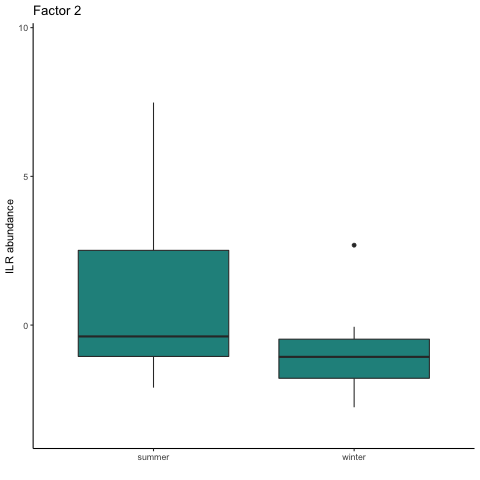
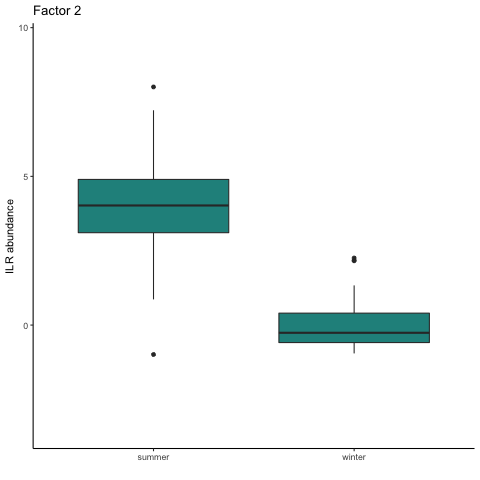
adding data on sex, bmi

diff --git a/02-analysis/README.md b/02-analysis/README.md
@@ -11,6 +11,7 @@
 # install.packages("UpSetR")
 # install.packages("vegan")
 # install.packages("ggfortify")
+# install.packages("ggrepel")
 # if (!requireNamespace("BiocManager", quietly = TRUE))
 #    install.packages("BiocManager")
 # BiocManager::install("philr")
@@ -42,6 +43,7 @@ library(microbiome)
 library(randomForest)
 library(rfUtilities)
 library(tidyverse)
+library(ggrepel)
 ```
 
 ### Load data into R
@@ -80,7 +82,7 @@ ps.dat
 ```text
 phyloseq-class experiment-level object
 otu_table()   OTU Table:         [ 2879 taxa and 58 samples ]
-sample_data() Sample Data:       [ 58 samples by 22 sample variables ]
+sample_data() Sample Data:       [ 58 samples by 31 sample variables ]
 tax_table()   Taxonomy Table:    [ 2879 taxa by 7 taxonomic ranks ]
 phy_tree()    Phylogenetic Tree: [ 2879 tips and 2878 internal nodes ]
 ```
@@ -139,11 +141,27 @@ dev.off()
 png("imgs/pca_temp.png")
 autoplot(pca, data=sample_data(ps.dat.nocont), colour="Temperature_C") + theme_minimal() 
 dev.off()
+png("imgs/pca_bmi.png")
+autoplot(pca, data=sample_data(ps.dat.nocont), colour="BMI_classification") + theme_minimal() 
+dev.off()
+png("imgs/pca_sex.png")
+autoplot(pca, data=sample_data(ps.dat.nocont), colour="Sex") + theme_minimal() 
+dev.off()
+png("imgs/pca_bodyID.png")
+autoplot(pca, data=sample_data(ps.dat.nocont)) + theme_minimal() + geom_label_repel(aes(label=Body_id, colour=Body_id), box.padding=0.35, point.padding=0.5, segment.color='grey50', max.overlaps=15, cex=1.5)
+dev.off()
+pdf("imgs/pca_bodyID.pdf")
+autoplot(pca, data=sample_data(ps.dat.nocont)) + theme_minimal() + geom_label_repel(aes(label=Body_id, colour=Body_id), box.padding=0.35, point.padding=0.5, segment.color='grey50', max.overlaps=15, cex=1.5)
+dev.off()
 ```
 ![screeplot](https://github.com/aemann01/necrobiome/blob/master/02-analysis/imgs/philr_screeplot.png)
 ![pca season](https://github.com/aemann01/necrobiome/blob/master/02-analysis/imgs/pca_season.png)
 ![pca matrix](https://github.com/aemann01/necrobiome/blob/master/02-analysis/imgs/pca_matrix.png)
 ![pca temp](https://github.com/aemann01/necrobiome/blob/master/02-analysis/imgs/pca_temp.png)
+![pca bmi](https://github.com/aemann01/necrobiome/blob/master/02-analysis/imgs/pca_bmi.png)
+![pca sex](https://github.com/aemann01/necrobiome/blob/master/02-analysis/imgs/pca_sex.png)
+![pca bodyID](https://github.com/aemann01/necrobiome/blob/master/02-analysis/imgs/pca_bodyID.png)
+
 
 Colored by surface temperature?
 
@@ -351,6 +369,48 @@ Total      57   10299.8                 1.00000
 Signif. codes:  0 ‘***’ 0.001 ‘**’ 0.01 ‘*’ 0.05 ‘.’ 0.1 ‘ ’ 1
 ```
 
+```R
+adonis(philr.dist ~ Sex, data=metadata)
+```
+
+```text
+Call:
+adonis(formula = philr.dist ~ Sex, data = metadata)
+
+Permutation: free
+Number of permutations: 999
+
+Terms added sequentially (first to last)
+
+          Df SumsOfSqs MeanSqs F.Model      R2 Pr(>F)
+Sex        1     885.2  885.24  5.2656 0.08595  0.002 **
+Residuals 56    9414.5  168.12         0.91405
+Total     57   10299.8                 1.00000
+---
+Signif. codes:  0 ‘***’ 0.001 ‘**’ 0.01 ‘*’ 0.05 ‘.’ 0.1 ‘ ’ 1
+```
+
+```R
+adonis(philr.dist ~ BMI_classification, data=metadata)
+```
+
+```text
+Call:
+adonis(formula = philr.dist ~ BMI_classification, data = metadata)
+
+Permutation: free
+Number of permutations: 999
+
+Terms added sequentially (first to last)
+
+                   Df SumsOfSqs MeanSqs F.Model      R2 Pr(>F)
+BMI_classification  4    2187.3  546.82  3.5725 0.21236  0.001 ***
+Residuals          53    8112.5  153.07         0.78764
+Total              57   10299.8                 1.00000
+---
+Signif. codes:  0 ‘***’ 0.001 ‘**’ 0.01 ‘*’ 0.05 ‘.’ 0.1 ‘ ’ 1
+```
+
 ### Phylofactor
 
 Differentially abundant taxa between groups
@@ -401,7 +461,7 @@ wilcox.test(dat[dat$V1 == "summer",]$V2, dat[dat$V1 == "winter",]$V2)
 	Wilcoxon rank sum test
 
 data:  dat[dat$V1 == "summer", ]$V2 and dat[dat$V1 == "winter", ]$V2
-W = 533, p-value = 0.0488
+W = 52, p-value = 2.72e-10
 alternative hypothesis: true location shift is not equal to 0
 ```
 
@@ -424,7 +484,7 @@ wilcox.test(dat[dat$V1 == "summer",]$V2, dat[dat$V1 == "winter",]$V2)
 	Wilcoxon rank sum test
 
 data:  dat[dat$V1 == "summer", ]$V2 and dat[dat$V1 == "winter", ]$V2
-W = 592, p-value = 0.003246
+W = 771, p-value = 8.248e-11
 alternative hypothesis: true location shift is not equal to 0
 ```
 
@@ -447,7 +507,7 @@ wilcox.test(dat[dat$V1 == "summer",]$V2, dat[dat$V1 == "winter",]$V2)
 	Wilcoxon rank sum test
 
 data:  dat[dat$V1 == "summer", ]$V2 and dat[dat$V1 == "winter", ]$V2
-W = 260, p-value = 0.01903
+W = 712, p-value = 2.731e-07
 alternative hypothesis: true location shift is not equal to 0
 ```
 
@@ -605,11 +665,15 @@ dev.off()
 
 ### Differential abundance 
 
+```bash
+conda activate qiime2-2020.8
+```
+
 First need to format for qiime2 (transpose sequence table beforehand, columns = samples, rows = ASV IDs)
 
 ```R
-system("biom convert -i ../01-raw_data_processing/sequence_table.16s.filtered.tr.txt -o sequence_table.16s.filtered.biom --table-type="OTU table" --to-hdf5")
-system("biom summarize-table -i sequence_table.16s.filtered.biom")
+biom convert -i ../01-raw_data_processing/sequence_table.16s.filtered.tr.txt -o sequence_table.16s.filtered.biom --table-type='OTU table' --to-hdf5
+biom summarize-table -i sequence_table.16s.filtered.biom
 ```
 ```text
 Num samples: 61
@@ -690,72 +754,221 @@ S36A: 295,081.000
 S34A: 328,813.000
 ```
 
-```R
-system("qiime tools import --input-path sequence_table.16s.filtered.biom --type 'FeatureTable[Frequency]' --input-format BIOMV210Format --output-path sequence_table.16s.filtered.qza")
+```bash
+qiime tools import --input-path sequence_table.16s.filtered.biom --type 'FeatureTable[Frequency]' --input-format BIOMV210Format --output-path sequence_table.16s.filtered.qza
 ```
 
 Now can run ALDEx plugin through qiime
 
 ```R
-system("qiime feature-table filter-samples --i-table sequence_table.16s.filtered.qza --m-metadata-file map.txt --p-where "[Sample-type]='swab'" --o-filtered-table swab-feature-table.qza")
-system("qiime aldex2 aldex2 --i-table swab-feature-table.qza --m-metadata-file map.txt --m-metadata-column Season --output-dir season_aldex")
-system("qiime aldex2 effect-plot --i-table season_aldex/differentials.qza --o-visualization season_aldex/season")
-system("qiime tools view season_aldex/season.qzv")
+qiime feature-table filter-samples --i-table sequence_table.16s.filtered.qza --m-metadata-file map.txt --p-where "[Sample-type]='swab'" --o-filtered-table swab-feature-table.qza
+qiime aldex2 aldex2 --i-table swab-feature-table.qza --m-metadata-file map.txt --m-metadata-column Season --output-dir season_aldex
+qiime aldex2 effect-plot --i-table season_aldex/differentials.qza --o-visualization season_aldex/season
+qiime tools view season_aldex/season.qzv
 ```
 
 ![aldex season](https://github.com/aemann01/necrobiome/blob/master/02-analysis/season_aldex/effect_plot.png)
 
 
 ```R
-system("qiime aldex2 extract-differences --i-table season_aldex/differentials.qza --o-differentials season_aldex/season --p-sig-threshold 0.1 --p-effect-threshold 0 --p-difference-threshold 0")
-system("qiime tools export --input-path season_aldex/season.qza --output-path season_aldex/")
-system("awk '{print $1}' season_aldex/differentials.tsv | grep "ASV" | while read line; do grep -w $line tax_for_phyloseq.txt ; done > season_aldex/differentials.taxonomy.txt")
-system("head season_aldex/differentials.taxonomy.txt")
+qiime aldex2 extract-differences --i-table season_aldex/differentials.qza --o-differentials season_aldex/season --p-sig-threshold 0.1 --p-effect-threshold 0 --p-difference-threshold 0
+qiime tools export --input-path season_aldex/season.qza --output-path season_aldex/
+awk '{print $1}' season_aldex/differentials.tsv | grep "ASV" | while read line; do grep -w $line tax_for_phyloseq.txt ; done > season_aldex/differentials.taxonomy.txt
+head season_aldex/differentials.taxonomy.txt
 ```
 
 ```text
 ASV4	Bacteria	Actinobacteria	Actinobacteria_c	Corynebacteriales	Corynebacteriaceae	Corynebacterium	Corynebacterium_unknown
-ASV5	Bacteria	Firmicutes	Bacilli	Bacillales	Planococcaceae	Planococcaceae_unknown	Planococcaceae_unknown
-ASV6	Bacteria	Firmicutes	Clostridia	Clostridiales	Clostridiaceae	Clostridium	Clostridium_unknown
+ASV5	Bacteria	Firmicutes	Clostridia	Clostridiales	Clostridiaceae	Clostridium	Clostridium_unknown
+ASV6	Bacteria	Firmicutes	Bacilli	Bacillales	Planococcaceae	Planococcaceae_unknown	Planococcaceae_unknown
 ASV7	Bacteria	Firmicutes	Clostridia	Clostridiales	Clostridiaceae	Clostridium	Clostridium_unknown
 ASV10	Bacteria	Firmicutes	Clostridia	Clostridiales	Clostridiaceae	Clostridium	Clostridium_unknown
 ASV16	Bacteria	Proteobacteria	Betaproteobacteria	Burkholderiales	Burkholderiaceae	Paraburkholderia	Paraburkholderia_unknown
 ASV17	Bacteria	Firmicutes	Clostridia	Clostridiales	Peptostreptococcaceae	Peptostreptococcaceae_unknown	Peptostreptococcaceae_unknown
 ASV20	Bacteria	Firmicutes	Clostridia	Clostridiales	Clostridiaceae	Clostridium	Clostridium_unknown
-ASV22	Bacteria	Actinobacteria	Actinobacteria_c	Corynebacteriales	Corynebacteriaceae	Corynebacterium	Corynebacterium_unknown
+ASV22	Bacteria	Firmicutes	Erysipelotrichi	Erysipelotrichales	Erysipelotrichaceae	Erysipelotrichaceae_unknown	Erysipelotrichaceae_unknown
 ASV23	Bacteria	Firmicutes	Bacilli	Bacillales	Planococcaceae	Planococcaceae_unknown	Planococcaceae_unknown
 ```
 
 Low vs high temperature -- first need to filter out the na sample from mapping file (delete in excel) and then filter from qza
 
 ```R
-system("qiime feature-table filter-samples --i-table swab-feature-table.qza --m-metadata-file map.filt.txt --o-filtered-table swab-feature-table.filt.qza")
-system("qiime aldex2 aldex2 --i-table swab-feature-table.filt.qza --m-metadata-file map.filt.txt --m-metadata-column Temp_group_binary --output-dir temp-low-hi_aldex")
-system("qiime aldex2 effect-plot --i-table temp-low-hi_aldex/differentials.qza --o-visualization temp-low-hi_aldex/temp-low-hi")
-system("qiime tools view temp-low-hi_aldex/temp-low-hi.qzv")
+qiime feature-table filter-samples --i-table swab-feature-table.qza --m-metadata-file map.filt.txt --o-filtered-table swab-feature-table.filt.qza
+qiime aldex2 aldex2 --i-table swab-feature-table.filt.qza --m-metadata-file map.filt.txt --m-metadata-column Temp_group_binary --output-dir temp-low-hi_aldex
+qiime aldex2 effect-plot --i-table temp-low-hi_aldex/differentials.qza --o-visualization temp-low-hi_aldex/temp-low-hi
+qiime tools view temp-low-hi_aldex/temp-low-hi.qzv
 ```
 
 ![aldex season](https://github.com/aemann01/necrobiome/blob/master/02-analysis/temp-low-hi_aldex/effect_plot.png)
 
 ```R
-system("qiime aldex2 extract-differences --i-table temp-low-hi_aldex/differentials.qza --o-differentials temp-low-hi_aldex/temp-low-hi --p-sig-threshold 0.1 --p-effect-threshold 0 --p-difference-threshold 0")
-system("qiime tools export --input-path temp-low-hi_aldex/temp-low-hi.qza --output-path temp-low-hi_aldex/")
-system("awk '{print $1}' temp-low-hi_aldex/differentials.tsv | grep "ASV" | while read line; do grep -w $line tax_for_phyloseq.txt ; done > temp-low-hi_aldex/differentials.taxonomy.txt")
-system("head temp-low-hi_aldex/differentials.taxonomy.txt")
+qiime aldex2 extract-differences --i-table temp-low-hi_aldex/differentials.qza --o-differentials temp-low-hi_aldex/temp-low-hi --p-sig-threshold 0.1 --p-effect-threshold 0 --p-difference-threshold 0
+qiime tools export --input-path temp-low-hi_aldex/temp-low-hi.qza --output-path temp-low-hi_aldex/
+awk '{print $1}' temp-low-hi_aldex/differentials.tsv | grep "ASV" | while read line; do grep -w $line tax_for_phyloseq.txt ; done > temp-low-hi_aldex/differentials.taxonomy.txt
+head temp-low-hi_aldex/differentials.taxonomy.txt
 ```
 
 ```text
 ASV4	Bacteria	Actinobacteria	Actinobacteria_c	Corynebacteriales	Corynebacteriaceae	Corynebacterium	Corynebacterium_unknown
-ASV5	Bacteria	Firmicutes	Bacilli	Bacillales	Planococcaceae	Planococcaceae_unknown	Planococcaceae_unknown
-ASV6	Bacteria	Firmicutes	Clostridia	Clostridiales	Clostridiaceae	Clostridium	Clostridium_unknown
+ASV5	Bacteria	Firmicutes	Clostridia	Clostridiales	Clostridiaceae	Clostridium	Clostridium_unknown
+ASV6	Bacteria	Firmicutes	Bacilli	Bacillales	Planococcaceae	Planococcaceae_unknown	Planococcaceae_unknown
 ASV10	Bacteria	Firmicutes	Clostridia	Clostridiales	Clostridiaceae	Clostridium	Clostridium_unknown
 ASV16	Bacteria	Proteobacteria	Betaproteobacteria	Burkholderiales	Burkholderiaceae	Paraburkholderia	Paraburkholderia_unknown
 ASV20	Bacteria	Firmicutes	Clostridia	Clostridiales	Clostridiaceae	Clostridium	Clostridium_unknown
-ASV22	Bacteria	Actinobacteria	Actinobacteria_c	Corynebacteriales	Corynebacteriaceae	Corynebacterium	Corynebacterium_unknown
+ASV22	Bacteria	Firmicutes	Erysipelotrichi	Erysipelotrichales	Erysipelotrichaceae	Erysipelotrichaceae_unknown	Erysipelotrichaceae_unknown
 ASV23	Bacteria	Firmicutes	Bacilli	Bacillales	Planococcaceae	Planococcaceae_unknown	Planococcaceae_unknown
 ASV26	Bacteria	Firmicutes	Clostridia	Clostridiales	Clostridiaceae	Clostridium	Clostridium_unknown
 ASV32	Bacteria	Proteobacteria	Gammaproteobacteria	Enterobacterales	Morganellaceae	Providencia	Providencia_unknown
 ```
+
+### Beta dispersion
+
+```R
+dispr <- vegan::betadisper(philr.dist, phyloseq::sample_data(ps.dat.nocont)$Season)
+dispr
+```
+
+```text
+	Homogeneity of multivariate dispersions
+
+Call: vegan::betadisper(d = philr.dist, group =
+phyloseq::sample_data(ps.dat.nocont)$Season)
+
+No. of Positive Eigenvalues: 57
+No. of Negative Eigenvalues: 0
+
+Average distance to median:
+summer winter
+ 11.49  11.71
+
+Eigenvalues for PCoA axes:
+(Showing 8 of 57 eigenvalues)
+ PCoA1  PCoA2  PCoA3  PCoA4  PCoA5  PCoA6  PCoA7  PCoA8
+2884.0 2465.0 1063.1  546.6  439.1  374.7  319.5  245.1
+```
+
+```R
+permutest(dispr)
+```
+
+```text
+Permutation test for homogeneity of multivariate dispersions
+Permutation: free
+Number of permutations: 999
+
+Response: Distances
+          Df Sum Sq Mean Sq      F N.Perm Pr(>F)
+Groups     1   0.67  0.6732 0.0394    999  0.872
+Residuals 56 956.64 17.0828
+```
+
+```R
+dispr <- vegan::betadisper(philr.dist, phyloseq::sample_data(ps.dat.nocont)$Sex)
+dispr
+```
+
+```text
+	Homogeneity of multivariate dispersions
+
+Call: vegan::betadisper(d = philr.dist, group =
+phyloseq::sample_data(ps.dat.nocont)$Sex)
+
+No. of Positive Eigenvalues: 57
+No. of Negative Eigenvalues: 0
+
+Average distance to median:
+Female   Male
+ 13.09  11.77
+
+Eigenvalues for PCoA axes:
+(Showing 8 of 57 eigenvalues)
+ PCoA1  PCoA2  PCoA3  PCoA4  PCoA5  PCoA6  PCoA7  PCoA8
+2884.0 2465.0 1063.1  546.6  439.1  374.7  319.5  245.1
+```
+
+```R
+permutest(dispr)
+```
+
+```text
+Permutation test for homogeneity of multivariate dispersions
+Permutation: free
+Number of permutations: 999
+
+Response: Distances
+          Df Sum Sq Mean Sq      F N.Perm Pr(>F)
+Groups     1  24.74  24.745 2.2261    999  0.128
+Residuals 56 622.49  11.116
+```
+
+```R
+dispr <- vegan::betadisper(philr.dist, phyloseq::sample_data(ps.dat.nocont)$BMI_classification)
+dispr
+```
+
+```text
+	Homogeneity of multivariate dispersions
+
+Call: vegan::betadisper(d = philr.dist, group =
+phyloseq::sample_data(ps.dat.nocont)$BMI_classification)
+
+No. of Positive Eigenvalues: 57
+No. of Negative Eigenvalues: 0
+
+Average distance to median:
+         na      normal       obese  overweight underweight
+      1.416      13.722      10.054      10.800       2.306
+
+Eigenvalues for PCoA axes:
+(Showing 8 of 57 eigenvalues)
+ PCoA1  PCoA2  PCoA3  PCoA4  PCoA5  PCoA6  PCoA7  PCoA8
+2884.0 2465.0 1063.1  546.6  439.1  374.7  319.5  245.1
+```
+
+```R
+permutest(dispr)
+```
+
+```text
+Permutation test for homogeneity of multivariate dispersions
+Permutation: free
+Number of permutations: 999
+
+Response: Distances
+          Df Sum Sq Mean Sq      F N.Perm Pr(>F)
+Groups     4 705.51 176.378 27.396    999  0.001 ***
+Residuals 53 341.22   6.438
+---
+Signif. codes:  0 ‘***’ 0.001 ‘**’ 0.01 ‘*’ 0.05 ‘.’ 0.1 ‘ ’ 1
+```
+
+NOTE: This is probably driven by higher number of "normal" individuals, only one underweight individual
+
+
+```R
+png("imgs/betadispr_bmi_type.png")
+boxplot(dispr)
+dev.off()
+```
+
+![factor1](https://github.com/aemann01/necrobiome/blob/master/02-analysis/imgs/betadispr_bmi_type.png)
+
+
+
+
+
+
+
+
+
+
+
+
+
+
+
+
+### OLD BELOW
 
 Clostridium seems to be very high in high temp, very low in low, plot these along temperature gradient. First merge with taxonomy. Open in excel and get values from clostridium.
 
